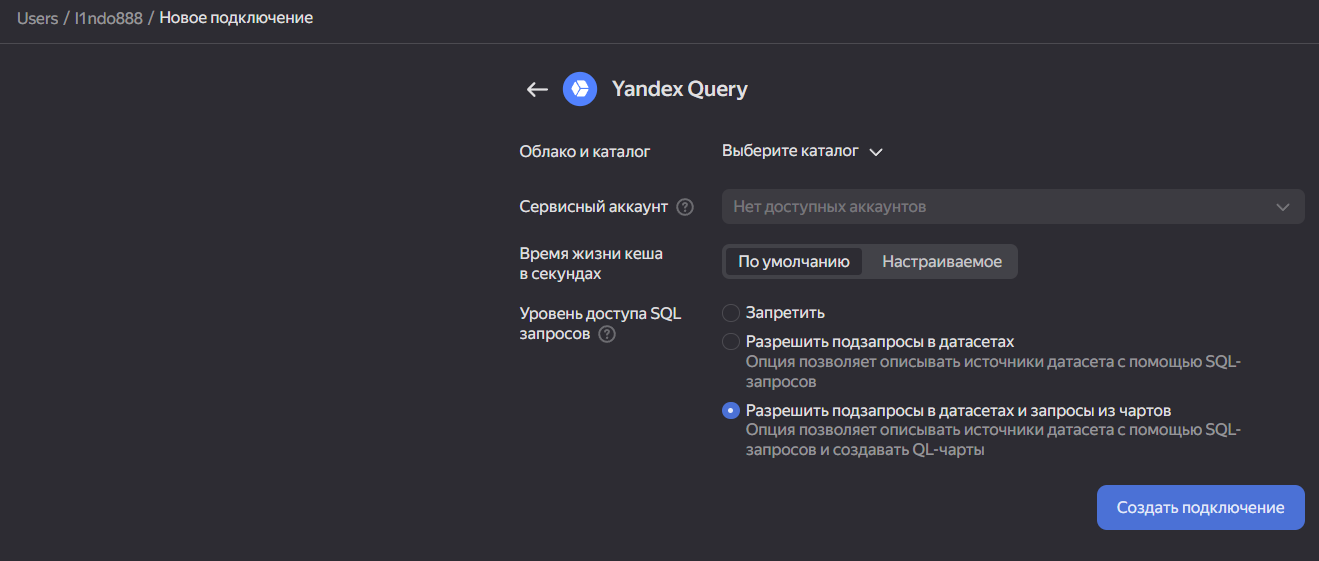
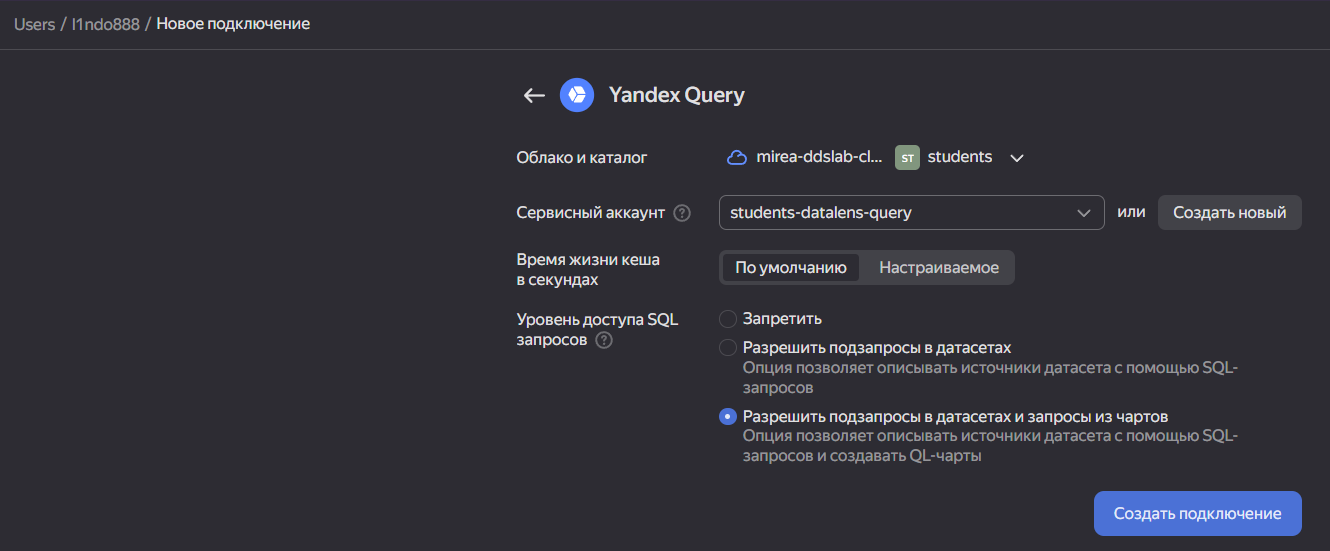
update

diff --git a/lab6/README.md b/lab6/README.md
@@ -1,0 +1,54 @@
+# Использование технологии Yandex DataLens для анализа данных сетевой
+активности
+Выполнено Кашинцевой Алиной Евгеньевной (l1ndo888@yandex.ru)
+
+# Лабораторная работа №6
+
+## Цель работы
+
+1.  Изучить возможности технологии Yandex DataLens для визуального
+    анализа структурированных наборов данных
+2.  Получить навыки визуализации данных для последующего анализа с
+    помощью сервисов Yandex Cloud
+3.  Получить навыки создания решений мониторинга/SIEM на базе облачных
+    продуктов и открытых программных решений
+4.  Закрепить практические навыки использования SQL для анализа данных
+    сетевой активности в сегментированной корпоративной сети
+
+## Ход выполнения работы
+
+1.  Перейти в соответствующий сервис – https://datalens.yandex.ru/
+    ![](Img/1.png)
+
+2.  Создать новое подключение ![](Img/2.png)
+
+![](Img/3.png) 3. Создание датасета на основе талицы yaqry2dataset
+![](Img/4.png)
+
+![](Img/5.png)
+
+1.  Создаем необходимые по заданию чарты
+
+![](Img/6.png)
+
+![](Img/7.png)
+
+![](Img/8.png)
+
+![](Img/9.png)
+
+![](Img/10.png)
+
+**Ссылка на созданный дашборд:** https://datalens.yandex/6u8bs0pfpfz8s
+
+## Вывод
+
+В результате лабораторной работы были разработаны чарты по анализу
+трафика и составлен дашборд, основанный на этих чартах. Изучены
+возможности технологии Yandex Query для визуального анализа
+структурированных данных, приобретены навыки визуализации информации для
+последующего анализа с использованием сервисов Yandex Cloud. Освоены
+методы создания решений для мониторинга и SIEM на основе облачных
+продуктов и открытых программных решений, а также укреплены практические
+навыки применения SQL для анализа сетевой активности в сегментированной
+корпоративной сети.
